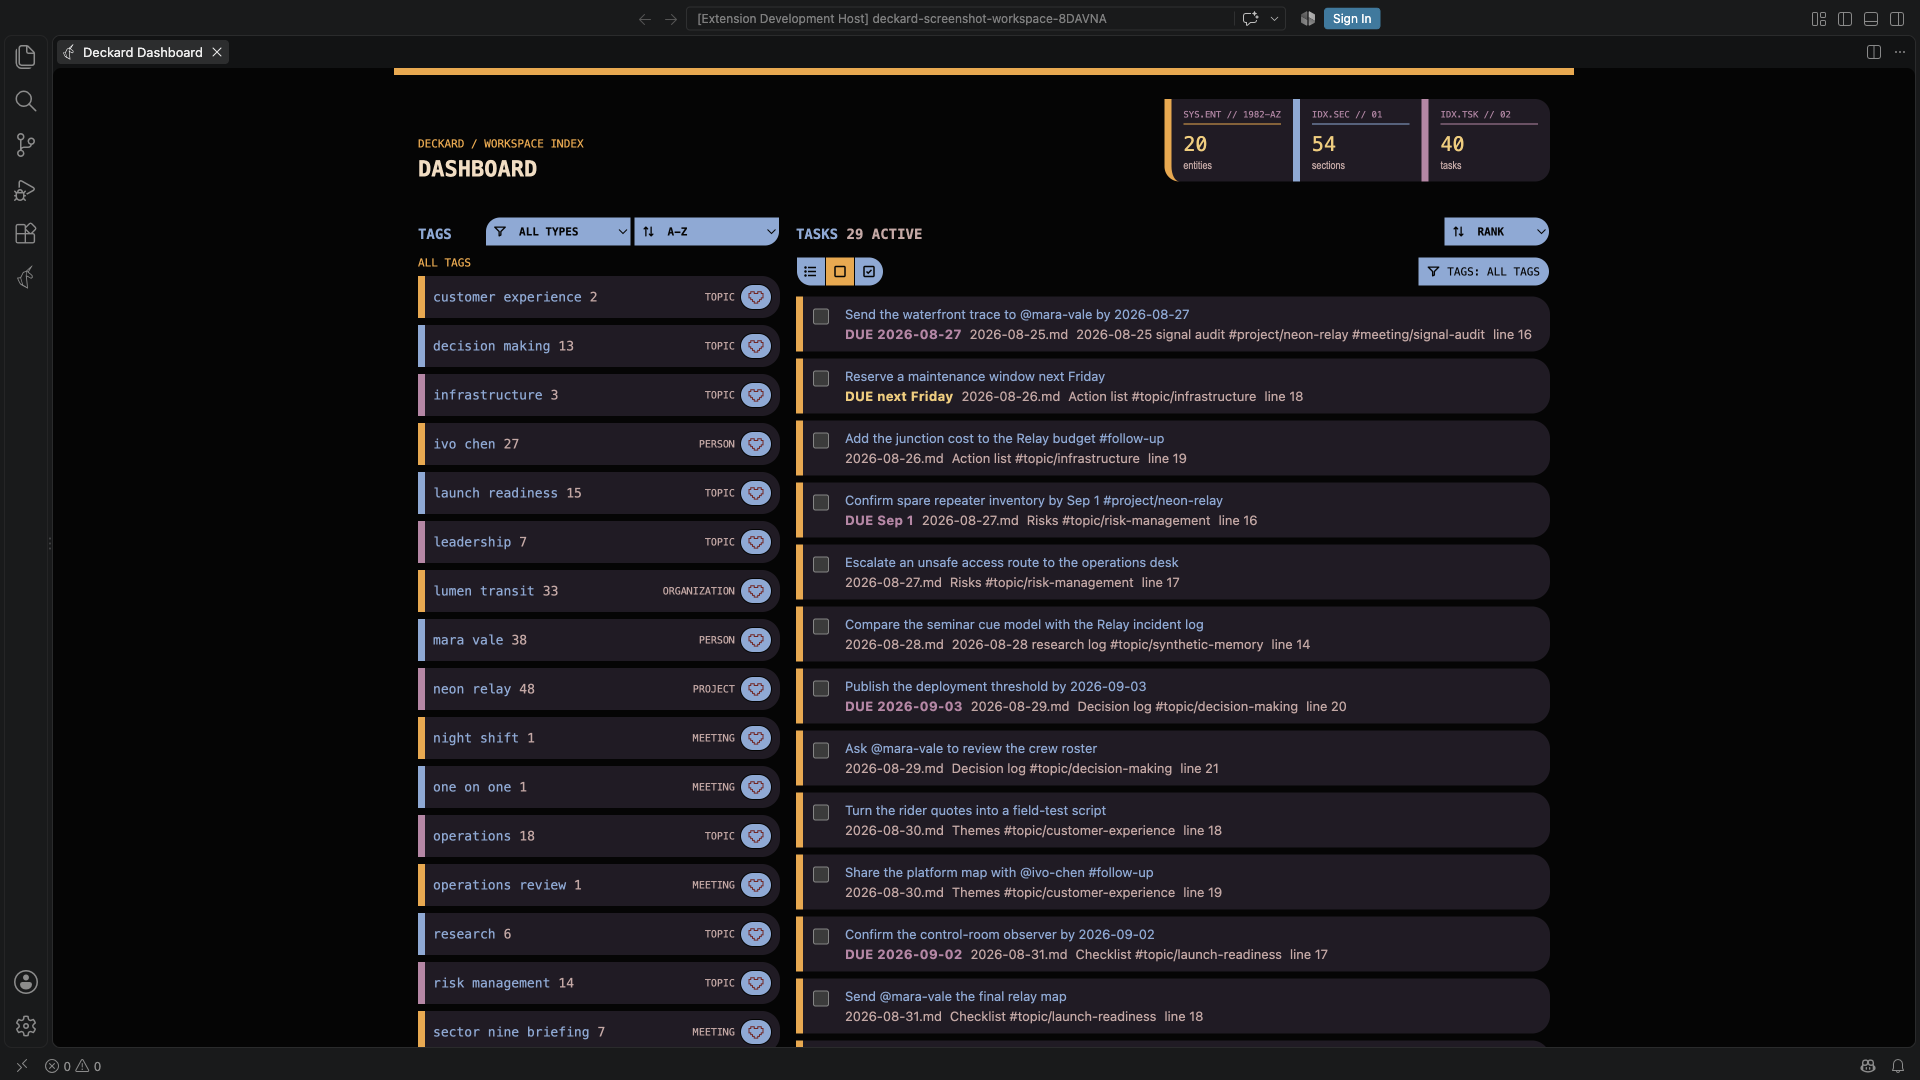
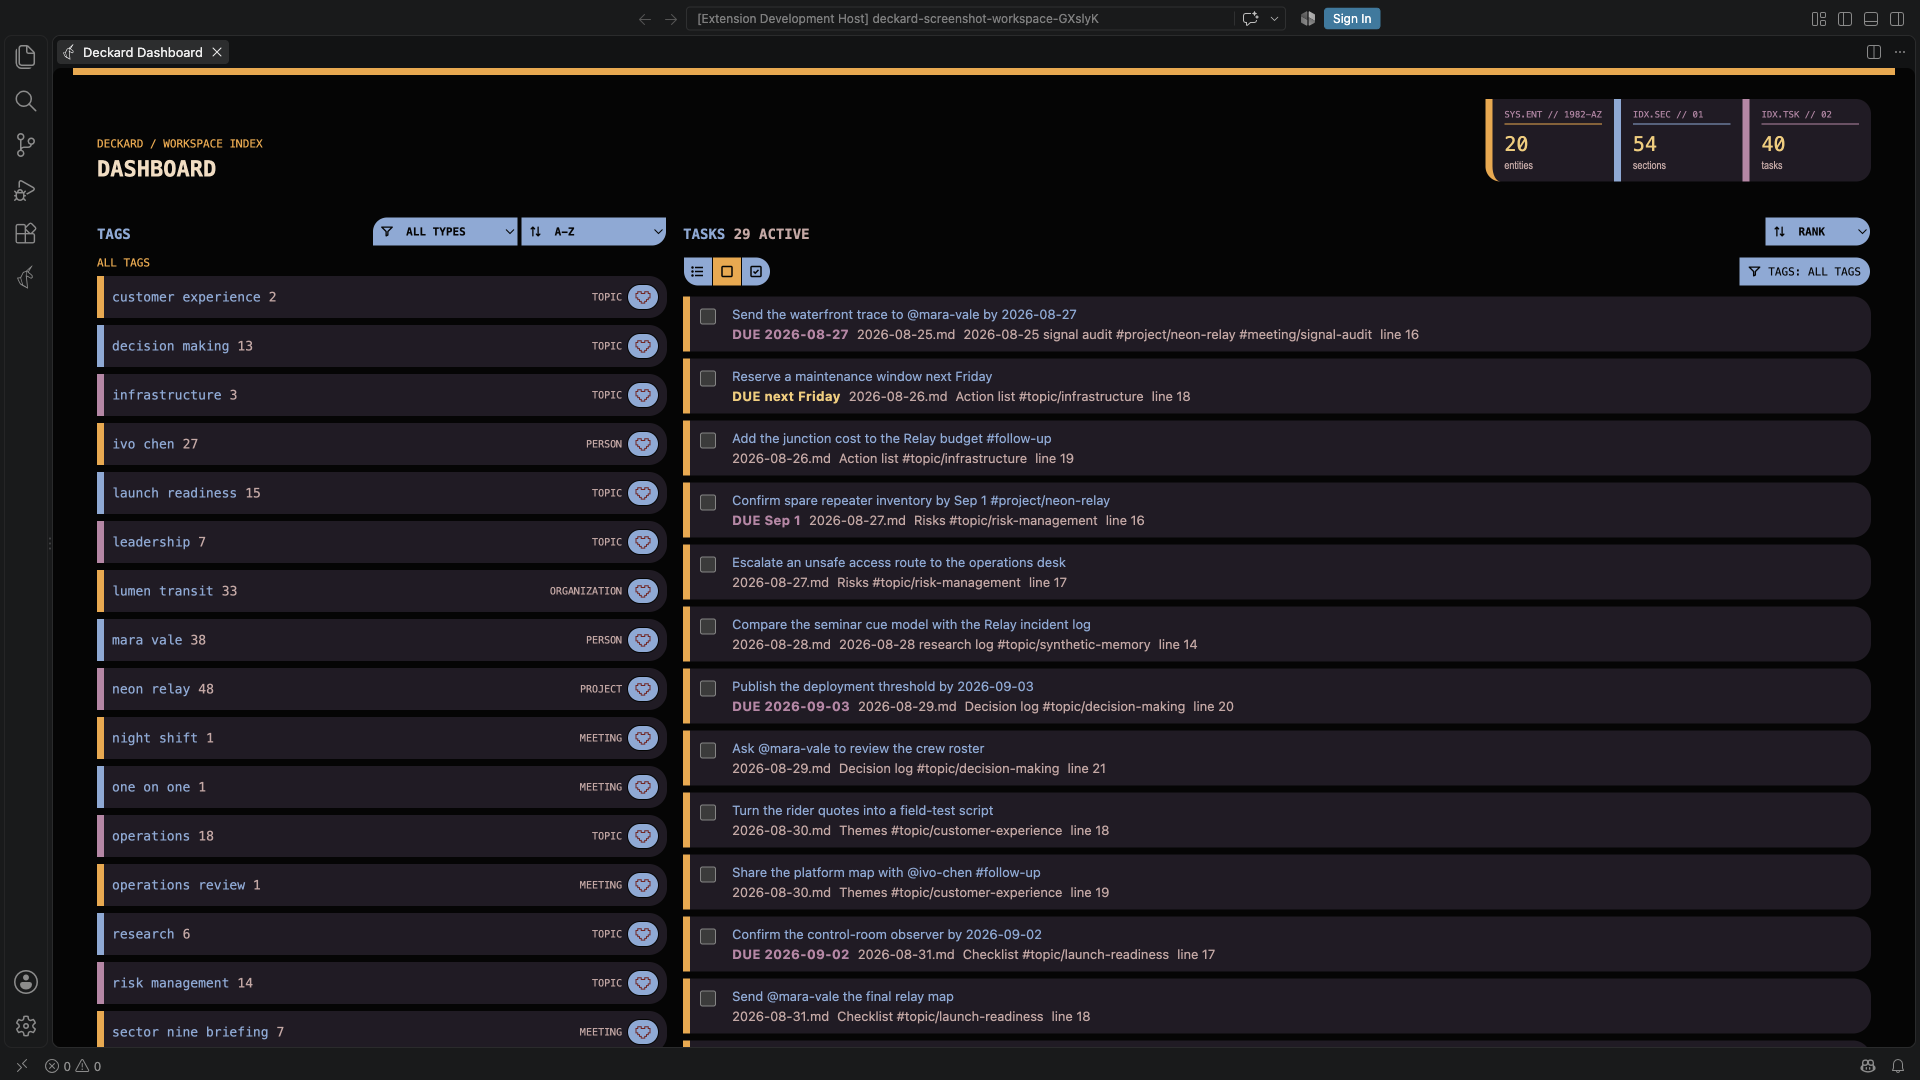
Add scripts for capturing dashboard and README screenshots
- Introduced `capture-all-dashboard-screenshots.mjs` to automate the process of capturing screenshots for all themes defined in the deckardThemes manifest.
- Added `capture-readme-screenshots.mjs` to capture screenshots for various views in the README.
- Both scripts ensure the extension is built before capturing screenshots and utilize environment variables for configuration.

diff --git a/src/ui/webview/themes.ts b/src/ui/webview/themes.ts
@@ -57,7 +57,7 @@ export function getDeckardThemeCss(theme: DeckardTheme): string {
   --font-mono: var(--vscode-editor-font-family, ui-monospace, monospace);
 }
 body { background-image: repeating-linear-gradient(0deg, rgba(118, 255, 99, .025) 0, rgba(118, 255, 99, .025) 1px, transparent 1px, transparent 4px); }
-main { border-color: var(--line); box-shadow: inset 0 0 0 1px rgba(118, 255, 99, .14), 0 0 22px rgba(41, 165, 47, .08); }
+main { border-color: var(--line); box-shadow: 0 0 22px rgba(41, 165, 47, .08); }
 header { border-color: var(--line-strong); box-shadow: 0 1px 0 rgba(118, 255, 99, .2); }
 h1, h2, h3, .metric-value, .metric-label, .task-count, .section-count { font-family: var(--font-mono); letter-spacing: .08em; text-transform: uppercase; }
 button, select, .tag-open { border-color: var(--line-strong); border-radius: 0; background: rgba(3, 13, 3, .94); color: var(--green); font-family: var(--font-mono); letter-spacing: .06em; text-transform: uppercase; }
@@ -99,7 +99,7 @@ button:hover, button.active, select:hover, .tag-open:hover { background: var(--g
   --font-mono: var(--vscode-editor-font-family, ui-monospace, monospace);
 }
 body { background-image: none; }
-main { border-color: var(--slate-border); box-shadow: inset 0 0 0 1px rgba(85, 113, 61, .24); }
+main { border-color: var(--slate-border); box-shadow: none; }
 header { border-color: var(--line-strong); }
 h1, h2, h3 { font-family: var(--font-display); color: #3d4d28; letter-spacing: .04em; }
 button, select, .tag-open { border-color: var(--slate-border); border-radius: 5px; background: #e9dfb7; color: var(--text); }
@@ -140,6 +140,7 @@ button:hover, button.active, select:hover, .tag-open:hover { border-color: var(-
 ${theme === 'oblivion' ? `body { background-image: radial-gradient(circle at 1px 1px, rgba(112, 225, 220, .2) 1px, transparent 0); background-size: 18px 18px; } ${contentHoverCss} .card .tag-open { color: var(--text); }` : ''}
 ${theme === 'lcars' ? 'body { background-image: none; } main { background: var(--panel-deep); border: 0; border-top: 7px solid var(--amber); border-radius: 0 0 26px 0; } header { border-color: var(--line); } button, select, .tag-open { border-color: var(--panel-deep); border-radius: 0 15px 15px 0; background: var(--cyan); color: #050505; font-weight: 700; } .related-notes-sort { background: var(--cyan); color: #050505; } .task-filter-toggle button { border-radius: 0; } .task-filter-toggle button:first-child { border-radius: 0 0 0 15px; } .task-filter-toggle button:last-child { border-radius: 0 15px 15px 0; } .sidebar-toolbar { gap: 0; } .sidebar-toolbar .icon-button { border-radius: 0; } .sidebar-toolbar .icon-button:first-child { border-radius: 0 0 0 15px; } .sidebar-toolbar .icon-button:last-child { border-radius: 0 15px 15px 0; } button svg, button .toolbar-icon, button .task-filter-icon, .control-icon-svg, .tag-filter summary .control-icon-svg, .control-icon select:hover + .control-icon-svg, .related-notes-sort-icon { color: #050505; } .task-filter-toggle button { color: #050505; } button:hover, button.active, select:hover, .tag-open:hover, .related-notes-sort:hover { border-color: var(--panel-deep); background: var(--amber); color: #050505; } .note .tag-list button { color: #050505; } .metrics { gap: 0; } .metric, .card, .note, .task, .tag-row, .task-row, .entity-row, .view-panel { border: 0; border-left: 7px solid var(--amber); border-radius: 0 18px 18px 0; background: var(--panel); clip-path: none; } .metric { border-radius: 0; } .metric:first-child { border-radius: 0 0 0 15px; } .metric:last-child { border-radius: 0 15px 15px 0; } .metric::before { border-bottom-color: var(--amber); } .metric:nth-child(3n + 2), .card:nth-child(3n + 2), .note:nth-child(3n + 2), .tag-row:nth-child(3n + 2), .entity-row:nth-child(3n + 2) { border-left-color: var(--cyan); } .metric:nth-child(3n + 2)::before { border-bottom-color: var(--cyan); } .metric:nth-child(3n), .card:nth-child(3n), .note:nth-child(3n), .tag-row:nth-child(3n), .entity-row:nth-child(3n) { border-left-color: var(--favorite-red); } .metric:nth-child(3n)::before { border-bottom-color: var(--favorite-red); } .card, .note, .task, .tag-row, .task-row, .entity-row { transition: background-color 120ms ease, transform 120ms ease; } .card:hover, .note:hover, .task:hover, .tag-row:hover, .task-row:hover, .entity-row:hover { background: var(--panel-raised); transform: translateX(3px); } .favorite-toggle { border-radius: 14px; background: var(--favorite-red); color: #050505; } .favorite-toggle:hover, .favorite-toggle:focus-visible { background: #f5cc72; color: #050505; } .favorite-toggle.favorite { background: #f5cc72; color: #050505; } .markdown, .rendered pre, .tag-filter-menu, .rank-context-menu, .active-file, .empty { border-color: var(--panel-deep); background: var(--panel-deep); color: #f5cc72; }' : ''}
 ${theme === 'lcars' ? '.favorite-toggle { background: var(--cyan); color: #7a1f1f; } .favorite-toggle .favorite-heart { color: #7a1f1f; } .favorite-toggle:hover, .favorite-toggle:focus-visible, .favorite-toggle.favorite { background: #f5cc72; color: #7a1f1f; }' : ''}
+${theme === 'lcars' ? 'main { border-top: 0; }' : ''}
 ${theme === 'lcars' ? '.task-row .task-title, .task .task-title { color: var(--cyan); font-family: inherit; font-size: inherit; line-height: inherit; } .task-row .task-title { font-family: var(--vscode-font-family, ui-sans-serif, sans-serif); } .task-row .task-title a, .task .task-title a { color: inherit; } .task-row .task-meta, .task .source { color: var(--muted); font-family: inherit; font-size: inherit; line-height: inherit; } .task-row .task-meta { font-family: var(--vscode-font-family, ui-sans-serif, sans-serif); }' : ''}
 ${theme === 'lcars' ? '.overview-tabs { gap: 2px; } .overview-tabs button { border-radius: 0; } .overview-tabs button:first-child { border-radius: 15px 0 0 0; } .overview-tabs button:last-child { border-radius: 0 0 15px 0; }' : ''}
 ${theme === 'lcars' ? '.tag-filter summary, .tag-filter-search { border-color: var(--panel-deep); border-radius: 0 15px 15px 0; background: var(--cyan); color: #050505; } .tag-filter-search::placeholder { color: #050505; opacity: 1; } .tag-filter summary .control-icon-svg, .tag-filter-search-control .control-icon-svg, .tag-filter-clear { color: #050505; } .tag-filter summary:hover, .tag-filter summary:focus-visible, .tag-filter-search:focus { border-color: var(--panel-deep); background: var(--amber); color: #050505; }' : ''}

diff --git a/src/test/messages-rendering.test.ts b/src/test/messages-rendering.test.ts
@@ -345,6 +345,10 @@ suite('Webview contracts', () => {
       true,
     );
     assert.strictEqual(
+      getDeckardThemeCss('tomcat').includes('inset 0 0 0 1px'),
+      false,
+    );
+    assert.strictEqual(
       getDeckardThemeCss('tomcat').includes(
         'box-shadow: inset 2px 0 0 var(--green)',
       ),
@@ -381,10 +385,31 @@ suite('Webview contracts', () => {
       true,
     );
     assert.strictEqual(
+      getDeckardThemeCss('fellowship').includes('inset 0 0 0 1px'),
+      false,
+    );
+    assert.strictEqual(
       getDeckardThemeCss('tomcat').includes(
         '.favorite-toggle.favorite { border-color: var(--favorite-red); background: transparent; color: var(--favorite-red); }',
       ),
       true,
+    );
+  });
+
+  test('renders the Dashboard with a centered maximum width and no outer frame', () => {
+    const html = getDashboardHtml({
+      cspSource: 'vscode-webview://deckard',
+    });
+
+    assert.strictEqual(
+      html.includes(
+        'main { position: relative; width: 100%; max-width: 1180px; margin: 0 auto; padding: 24px; border: 0; }',
+      ),
+      true,
+    );
+    assert.strictEqual(
+      html.includes('border: 1px solid var(--slate-border)'),
+      false,
     );
   });
 

diff --git a/src/ui/webview/sidebarNotesHtml.ts b/src/ui/webview/sidebarNotesHtml.ts
@@ -45,7 +45,7 @@ export function getSidebarNotesHtml(
 }
 * { box-sizing: border-box; }
 body { margin: 0; min-width: 220px; background-color: var(--bg); background-image: linear-gradient(rgba(0, 229, 255, .04) 1px, transparent 1px), linear-gradient(90deg, rgba(0, 229, 255, .04) 1px, transparent 1px); background-size: 24px 24px; color: var(--text); font-family: var(--vscode-font-family, ui-sans-serif, sans-serif); font-size: 12px; }
-main { padding: 12px; border-top: 2px solid var(--amber); }
+main { width: 100%; padding: 12px; border-top: 2px solid var(--amber); }
 h2, .eyebrow, .source, .match-count, .version { font-family: var(--vscode-editor-font-family, ui-monospace, monospace); }
 h2 { margin: 0; color: var(--cyan); font-size: 13px; font-weight: 600; overflow-wrap: anywhere; }
 .sidebar-header { display: flex; align-items: center; justify-content: space-between; gap: 8px; min-width: 0; padding-bottom: 8px; border-bottom: 2px solid var(--line-strong); }

diff --git a/src/ui/webview/dashboardHtml.ts b/src/ui/webview/dashboardHtml.ts
@@ -53,7 +53,7 @@ body {
   font-family: var(--font-display);
   font-size: 13px;
 }
-main { position: relative; max-width: 1180px; margin: 0 auto; padding: 24px; border: 1px solid var(--slate-border); border-top: 2px solid var(--amber-bright); }
+main { position: relative; width: 100%; max-width: 1180px; margin: 0 auto; padding: 24px; border: 0; }
 header { display: flex; justify-content: space-between; gap: 20px; align-items: end; border-bottom: 1px dashed var(--slate-border); padding-bottom: 16px; }
 h1, h2, h3, .eyebrow, .metric-value, .tag-name, .task-meta, .telemetry-line, .section-readout { font-family: var(--font-mono); }
 h1 { margin: 0; color: var(--text); font-size: 22px; font-weight: 700; text-transform: uppercase; }

diff --git a/README.md b/README.md
@@ -15,7 +15,7 @@ Deckard scans every `*.md` file in each workspace folder by default. Set a notes
 
 ## Install
 
-Download the VSIX attached to a GitHub release and run `Extensions: Install from VSIX...` in VS Code. When installing from a checkout, build the package with `npm run package:vsix`.
+Download the VSIX attached to a GitHub release and run `Extensions: Install from VSIX...` in VS Code.
 
 ## Screenshots
 
@@ -31,7 +31,7 @@ Set `deckard.theme` to choose the visual style used by Deckard webviews. The def
 
 | Replicant | Oblivion | LCARS | Tomcat | Fellowship |
 |---|---|---|---|---|
-| <img src="docs/images/dashboard-replicant.png" alt="Replicant theme Dashboard." width="220"> | <img src="docs/images/dashboard-oblivion.png" alt="Oblivion theme Dashboard." width="220"> | <img src="docs/images/dashboard-lcars.png" alt="LCARS theme Dashboard." width="220"> | <img src="docs/images/dashboard-tomcat.png" alt="Tomcat theme Dashboard." width="220"> | Fellowship screenshot forthcoming. |
+| <img src="docs/images/dashboard-replicant.png" alt="Replicant theme Dashboard." width="220"> | <img src="docs/images/dashboard-oblivion.png" alt="Oblivion theme Dashboard." width="220"> | <img src="docs/images/dashboard-lcars.png" alt="LCARS theme Dashboard." width="220"> | <img src="docs/images/dashboard-tomcat.png" alt="Tomcat theme Dashboard." width="220"> | <img src="docs/images/dashboard-fellowship.png" alt="Fellowship theme Dashboard." width="220">|
 
 ## Get started
 
@@ -207,12 +207,3 @@ Deckard stores a workspace-scoped SQLite full-text cache locally for fast saved-
 - **Date sorting looks unexpected:** task and section dates come from source file creation and modification timestamps, not dates written in note content.
 
 Deckard does not support ordered-list tasks or arbitrary checklist syntaxes, and it scans only Markdown files within the configured workspace scope.
-
-## Development
-
-```sh
-npm ci
-npm run compile
-npm test
-npm run package:vsix
-```

diff --git a/development/notes/2026-08-25.md b/development/notes/2026-08-25.md
@@ -13,7 +13,7 @@ links:
 Met with @mara-vale in the Lumen Transit signal room. The relay is stable in
 the central districts, but the waterfront repeaters still lose packets at dawn.
 
-- [ ] Send the waterfront trace to @mara-vale by 2026-08-27
+- [x] Send the waterfront trace to @mara-vale by 2026-08-27
 - [x] Log the baseline packet loss #follow-up
 
 ## Observation #topic/signal-integrity

diff --git a/development/notes/2026-08-26.md b/development/notes/2026-08-26.md
@@ -15,6 +15,6 @@ protect the next Neon Relay field test.
 
 ## Action list #topic/infrastructure
 
-- [ ] Reserve a maintenance window next Friday
+- [x] Reserve a maintenance window next Friday
 - [ ] Add the junction cost to the Relay budget #follow-up
 - [x] Link the repair log to [[Sector Nine Briefing]]
